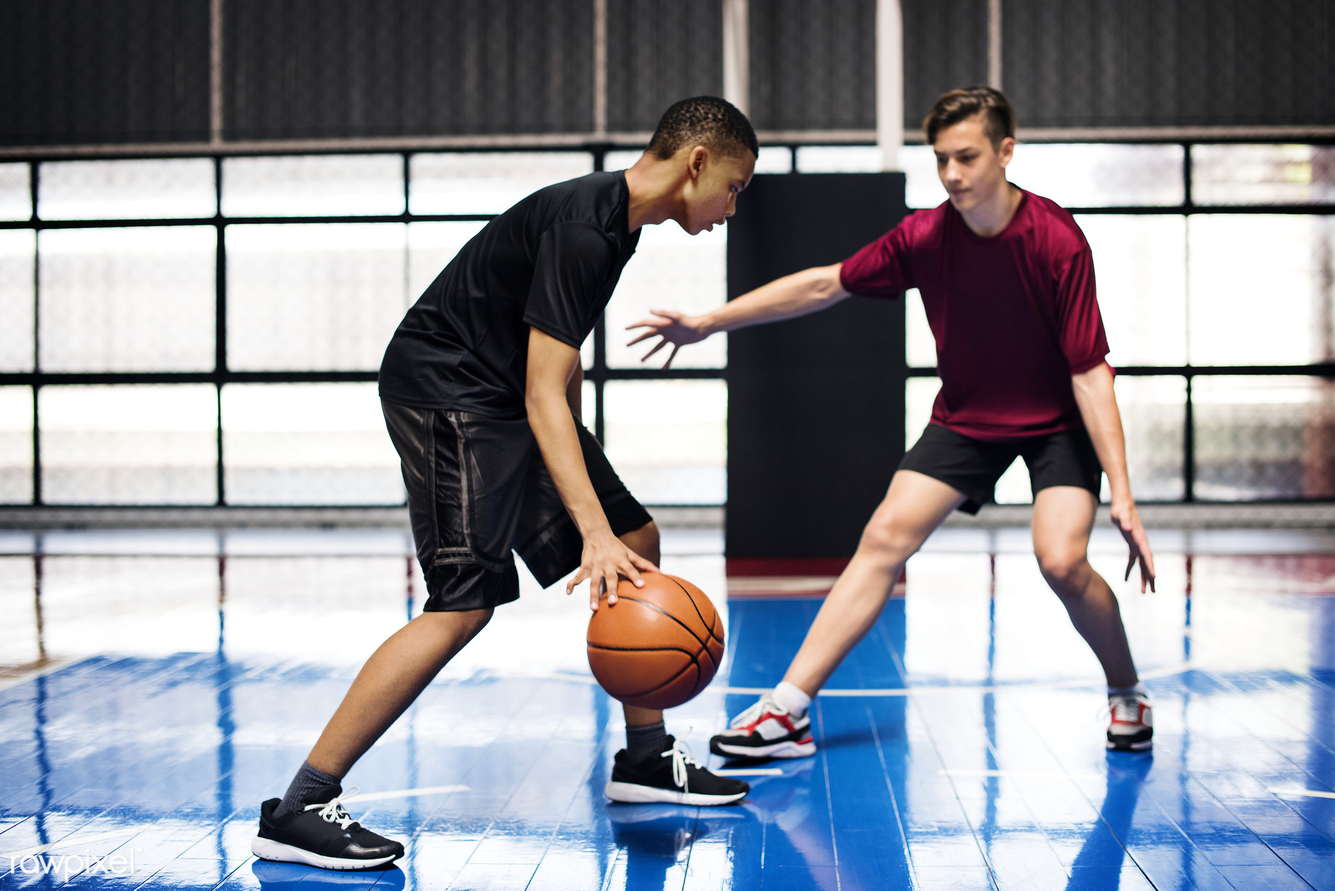
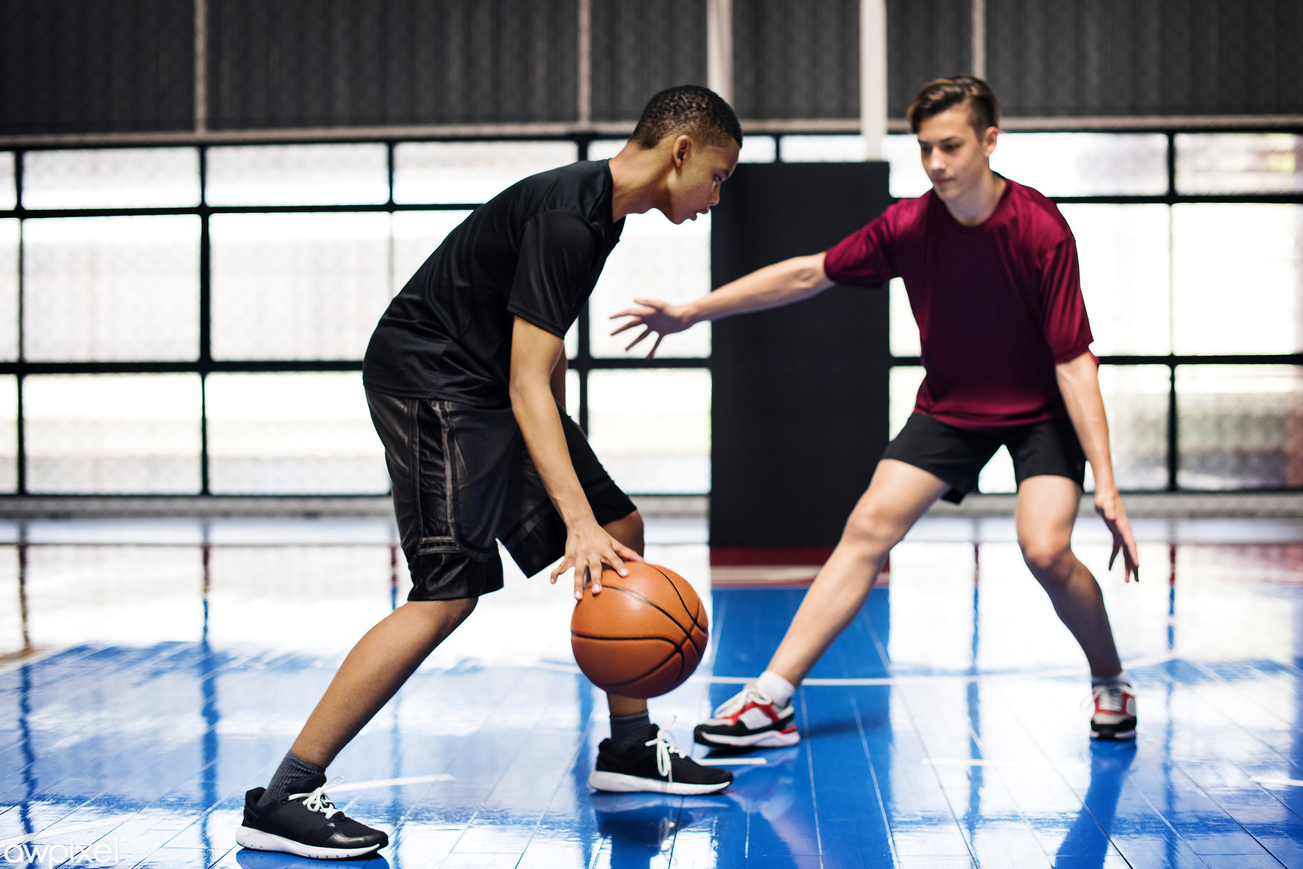
update booking background image

Changed region(s): [[0.0, 0.0, 1.0, 1.0], [0.31, 0.744, 0.372, 0.806]]

diff --git a/G4_SASS/sass/pages/_booking.scss b/G4_SASS/sass/pages/_booking.scss
@@ -58,15 +58,40 @@ a{ text-decoration: none; }
 .area:nth-child(4) .mask:before{ background-color: rgba(205,171,85,.7);}
 
 
-
-.content img{
+.content{
 	height: 100vh;
-	width:100%;
-	position: relative;
-	vertical-align: middle;
-	z-index: -1;
-	top: 0;
+	background-repeat: no-repeat;
+	background-size:cover;
 }
+
+.area:nth-child(1) .content{
+	background-image: url(../images/booking/01basketball.jpg);
+	background-position: 45%;
+}
+
+
+.area:nth-child(2) .content{
+	background-image: url(../images/booking/02badminton.jpg);
+	background-position: 50%;
+}
+
+.area:nth-child(3) .content{
+	background-image: url(../images/booking/03climbling.jpg);
+	background-position: 40%;
+}
+
+.area:nth-child(4) .content{
+	background-image: url(../images/booking/04bowling.jpg);
+	background-position: 70%;
+}
+// .content img{
+// 	height: 100vh;
+// 	width:100%;
+// 	position: relative;
+// 	vertical-align: middle;
+// 	z-index: -1;
+// 	top: 0;
+// }
 
 
 .active .mask:before{

diff --git a/G4_SASS/booking.html b/G4_SASS/booking.html
@@ -96,7 +96,7 @@
 					</table>
 				</div><!-- panel -->
 				<div class="content">
-					<img src="images/booking/01basketball.jpg">
+					<!-- <img src="images/booking/01basketball.jpg"> -->
 				</div>
 			</div>
 		</div>
@@ -153,7 +153,7 @@
 					</table>
 				</div><!-- panel -->
 				<div class="content">
-					<img src="images/booking/02badminton.jpg">
+					<!-- <img src="images/booking/02badminton.jpg"> -->
 				</div>
 			</div>
 		</div>
@@ -210,7 +210,7 @@
 					</table>
 				</div><!-- panel -->
 				<div class="content">
-					<img src="images/booking/03climbling.jpg">
+					<!-- <img src="images/booking/03climbling.jpg"> -->
 				</div>
 			</div>
 		</div>
@@ -266,7 +266,7 @@
 					</table>
 				</div><!-- panel -->
 				<div class="content">
-					<img src="images/booking/04bowling.jpg">
+					<!-- <img src="images/booking/04bowling.jpg"> -->
 				</div>
 			</div>
 		</div>
